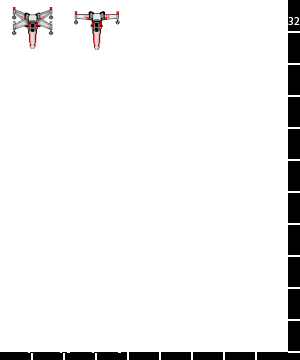
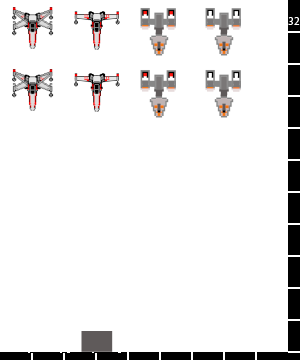
Arreglados disparos y acabados todos los sprites

diff --git a/src/code/gameWindow.java b/src/code/gameWindow.java
@@ -15,6 +15,7 @@ import java.awt.geom.Rectangle2D;
 import java.awt.image.BufferedImage;
 import java.io.IOException;
 import java.util.ArrayList;
+import javafx.scene.input.KeyCode;
 import javax.imageio.ImageIO;
 import javax.swing.Timer;
 
@@ -34,6 +35,8 @@ public class gameWindow extends javax.swing.JFrame {
     int xWingGapY = 10;//separacion entre filas de marcianos
 
     int counter = 0;
+    
+    boolean keyReleased = true;
 
     BufferedImage buffer = null;
     BufferedImage template = null;
@@ -104,6 +107,7 @@ public class gameWindow extends javax.swing.JFrame {
             if (auxBlast.posY < 0) {
                 blastList.remove(i);
             } else {
+                
                 g2.drawImage(auxBlast.image, auxBlast.posX, auxBlast.posY, null);
             }
         }
@@ -253,19 +257,22 @@ public class gameWindow extends javax.swing.JFrame {
 
     private void formKeyPressed(java.awt.event.KeyEvent evt) {//GEN-FIRST:event_formKeyPressed
         switch (evt.getKeyCode()) {
-            case KeyEvent.VK_LEFT:
+            case KeyEvent.VK_LEFT:  
                 myTieFighter.setLeftPressed(true);
                 break;
             case KeyEvent.VK_RIGHT:
                 myTieFighter.setRightPressed(true);
                 break;
             case KeyEvent.VK_SPACE:
+                if(keyReleased==true){
                 Blast b = new Blast();
                 b.blastPosition(myTieFighter);
                 //agregamos el disparo a la lista de disparos
                 blastList.add(b);
-                
+                keyReleased=false;
+                }
                 break;
+                
         }
     }//GEN-LAST:event_formKeyPressed
 
@@ -277,6 +284,9 @@ public class gameWindow extends javax.swing.JFrame {
             case KeyEvent.VK_RIGHT:
                 myTieFighter.setRightPressed(false);
                 break;
+             case KeyEvent.VK_SPACE:
+                keyReleased=true;
+                break; 
         }
     }//GEN-LAST:event_formKeyReleased
 

diff --git a/src/code/tieFighter.java b/src/code/tieFighter.java
@@ -21,10 +21,10 @@ public class tieFighter {
     }
     
     public void move(){
-        if(leftPressed && posX > 0){
+        if(leftPressed && posX > -13){
             posX -= 6;
         }
-        if(rightPressed && posX < (gameWindow.SCREENWIDTH - image.getWidth(null))){
+        if(rightPressed && posX < (gameWindow.SCREENWIDTH - image.getWidth(null)+1)){
             posX += 6;
         }
     }
